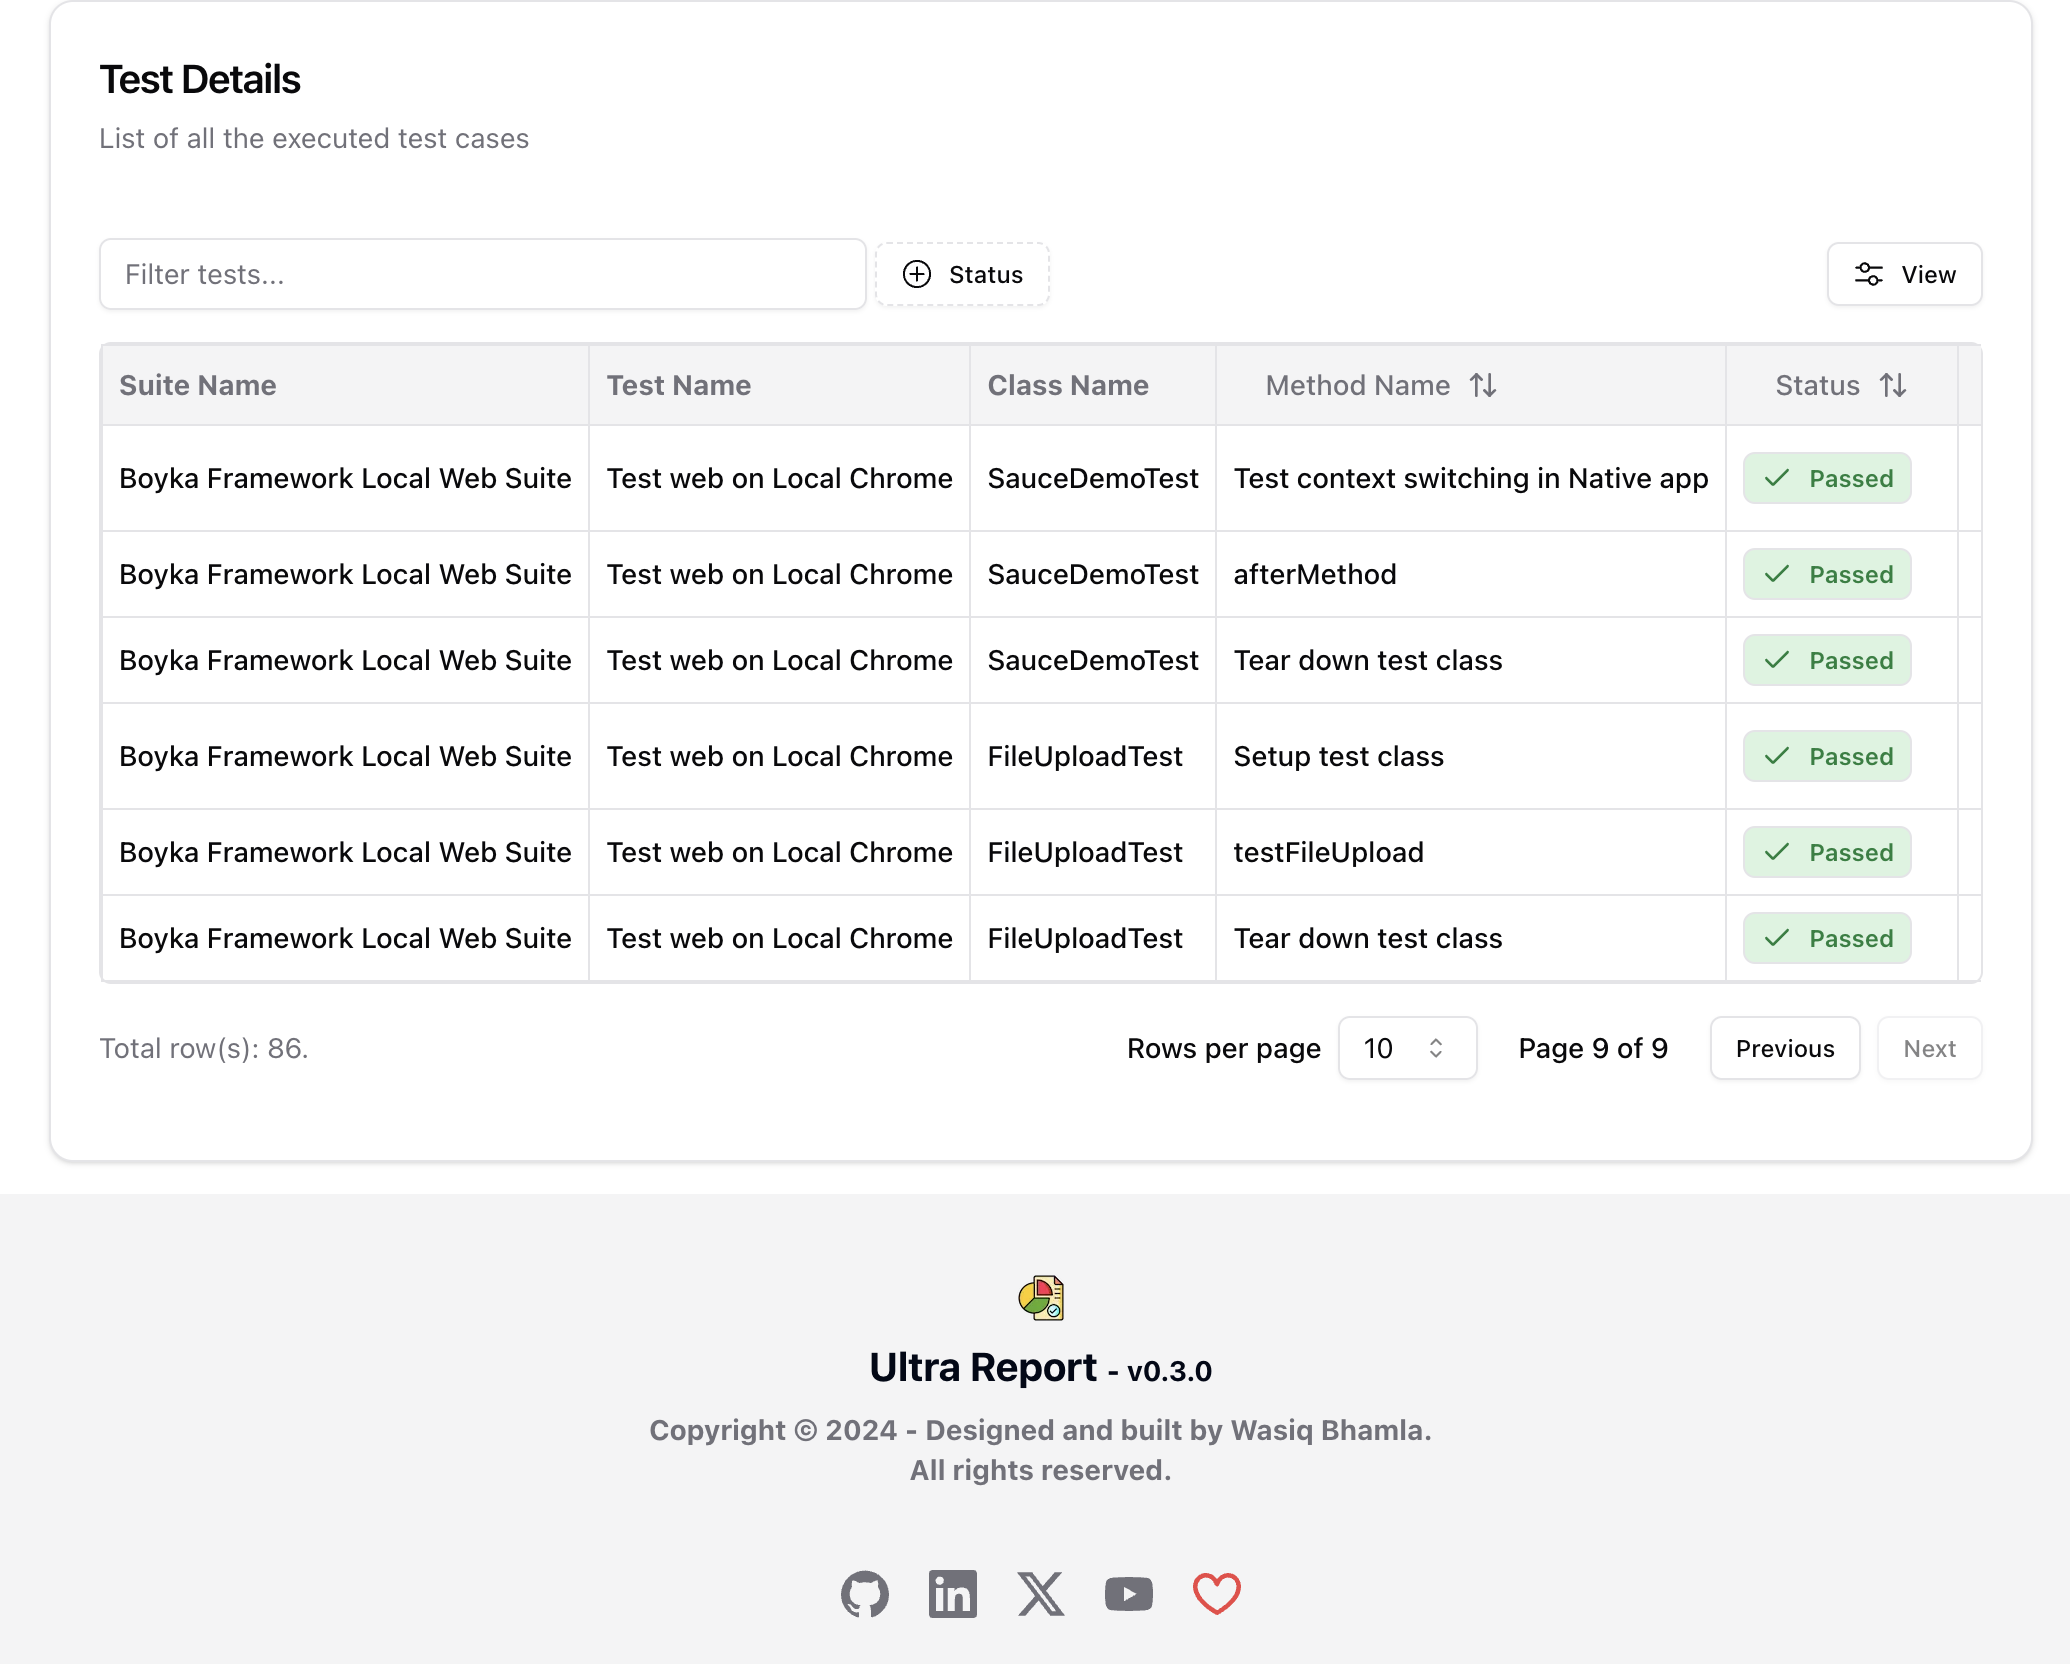
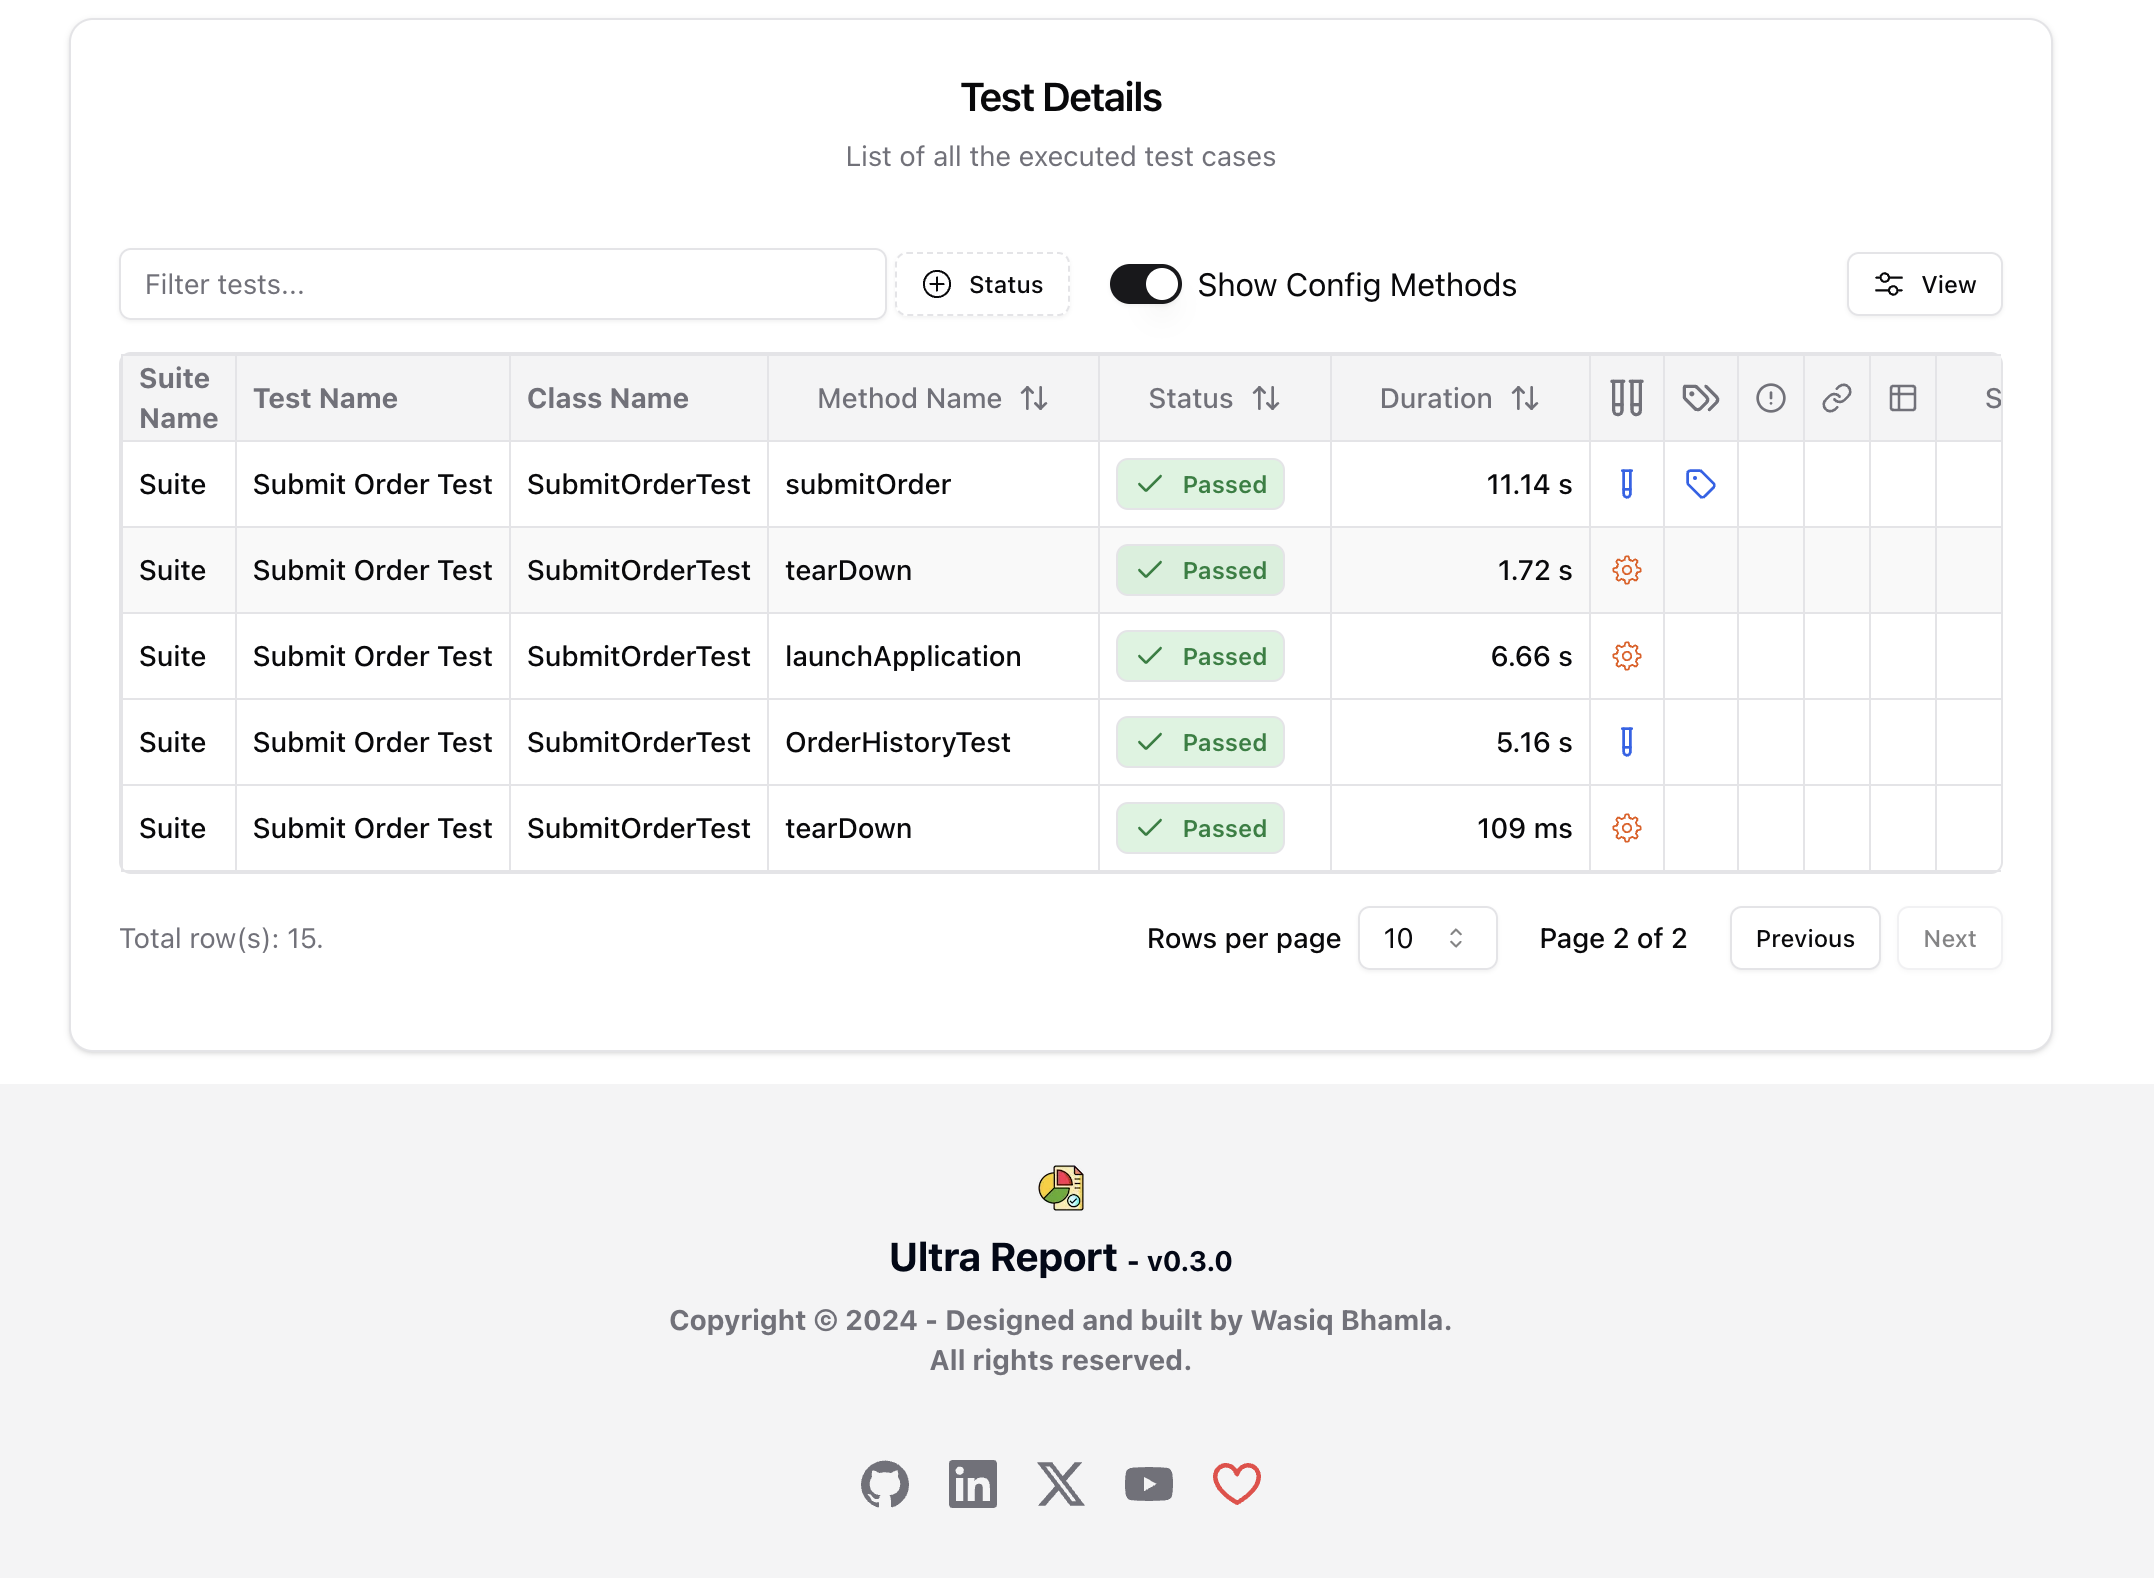
feat: :sparkles: added config method filter toggle (#60)
* feat: :sparkles: added config method filter toggle

* feat: :sparkles: updated screenshots in readme

diff --git a/components/data-table/data-table-toolbar.tsx b/components/data-table/data-table-toolbar.tsx
@@ -5,6 +5,8 @@ import { statuses } from './data';
 import { Button } from '@/components/ui/button';
 import { Cross2Icon } from '@radix-ui/react-icons';
 import { DataTableViewOptions } from './data-table-view-options';
+import { Switch } from '../ui/switch';
+import { useState } from 'react';
 
 interface DataTableToolbarProps<TData> {
   table: Table<TData>;
@@ -16,6 +18,22 @@ export function DataTableToolbar<TData>({
   filterColumn,
 }: DataTableToolbarProps<TData>): JSX.Element {
   const isFiltered = table.getState().columnFilters.length > 0;
+  const [showConfigMethods, setShowConfigMethods] = useState(true);
+
+  const handleShowConfig = (): void => {
+    setShowConfigMethods(!showConfigMethods);
+    if (showConfigMethods) {
+      table.getColumn('is_config')?.setFilterValue(false);
+    } else {
+      table.getColumn('is_config')?.setFilterValue(null);
+    }
+  };
+
+  const handleResetFilters = (): void => {
+    table.resetColumnFilters();
+    setShowConfigMethods(true);
+  };
+
   return (
     <div className='flex items-center py-4'>
       <Input
@@ -35,10 +53,18 @@ export function DataTableToolbar<TData>({
           options={statuses}
         />
       )}
+      <div className='ml-5 flex items-center space-x-2'>
+        <Switch
+          id='show-config-methods'
+          checked={showConfigMethods}
+          onCheckedChange={handleShowConfig}
+        />
+        <label htmlFor='show-config-methods'>Show Config Methods</label>
+      </div>
       {isFiltered && (
         <Button
           variant='ghost'
-          onClick={() => table.resetColumnFilters()}
+          onClick={handleResetFilters}
           className='h-8 px-2 lg:px-3'
         >
           Reset

diff --git a/app/(app)/results/page.tsx b/app/(app)/results/page.tsx
@@ -94,7 +94,7 @@ const ResultsPage = (): JSX.Element => {
       <main className='flex-grow pt-16'>
         <section className='container mx-auto space-y-6 p-4'>
           <Card className='bg-card text-card-foreground'>
-            <CardHeader>
+            <CardHeader className='items-center pb-5'>
               <CardTitle className='text-xl'>Test Statistics</CardTitle>
               <CardDescription>
                 Overall Test execution statistics
@@ -201,7 +201,7 @@ const ResultsPage = (): JSX.Element => {
             )}
           </div>
           <Card>
-            <CardHeader>
+            <CardHeader className='items-center pb-5'>
               <CardTitle className='text-xl'>Test Details</CardTitle>
               <CardDescription>
                 List of all the executed test cases

diff --git a/components/charts/pie-chart.tsx b/components/charts/pie-chart.tsx
@@ -37,7 +37,7 @@ export function PieComponent({
 }: PieProps): JSX.Element {
   return (
     <Card className='flex flex-col'>
-      <CardHeader className='items-center pb-0'>
+      <CardHeader className='items-center pb-5'>
         <CardTitle className='text-xl'>{title}</CardTitle>
         {description && <CardDescription>{description}</CardDescription>}
       </CardHeader>

diff --git a/components/charts/area-chart.tsx b/components/charts/area-chart.tsx
@@ -37,7 +37,7 @@ export function AreaChartComponent({
 }: AreaChartProps): JSX.Element {
   return (
     <Card>
-      <CardHeader className='items-center pb-0'>
+      <CardHeader className='items-center pb-5'>
         <CardTitle className='text-xl'>{title}</CardTitle>
         {description && <CardDescription>{description}</CardDescription>}
       </CardHeader>

diff --git a/components/charts/dough-nut-chart.tsx b/components/charts/dough-nut-chart.tsx
@@ -38,7 +38,7 @@ const DoughNutComponent = ({
 }: DoughNutProps): JSX.Element => {
   return (
     <Card>
-      <CardHeader className='items-center pb-0'>
+      <CardHeader className='items-center pb-5'>
         <CardTitle className='text-xl'>{title}</CardTitle>
         {description && <CardDescription>{description}</CardDescription>}
       </CardHeader>
